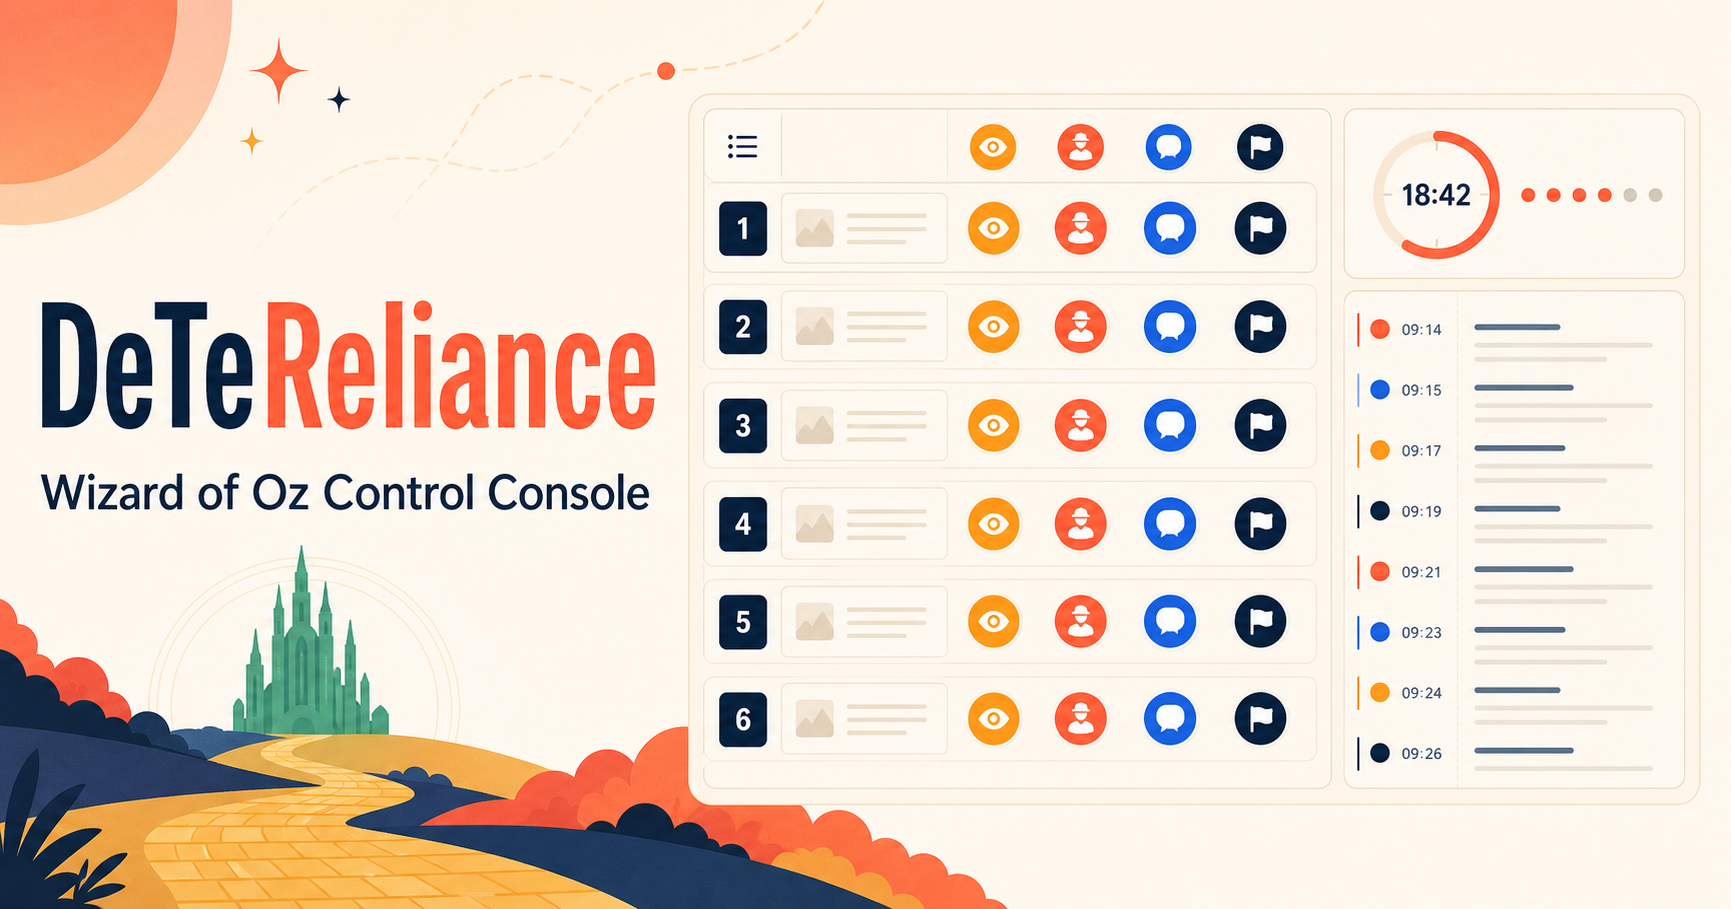
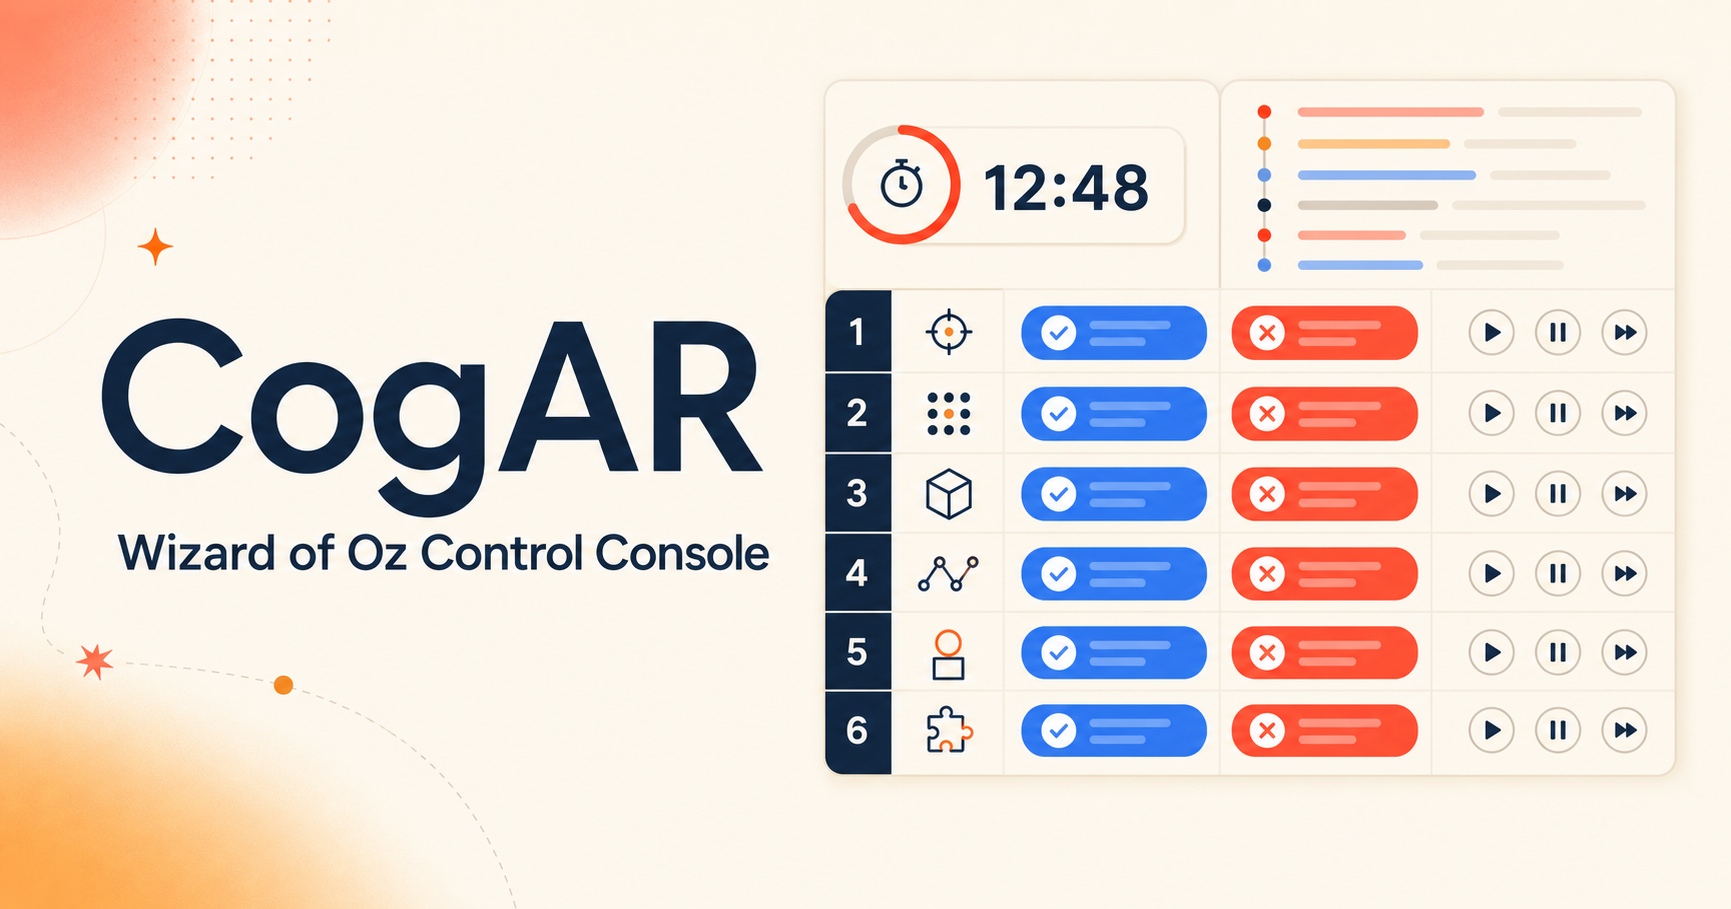
Rename console to CogAR

diff --git a/app/page.tsx b/app/page.tsx
@@ -234,7 +234,7 @@ export default function Home() {
     const url = URL.createObjectURL(new Blob([csv], { type: "text/csv;charset=utf-8" }));
     const anchor = document.createElement("a");
     anchor.href = url;
-    anchor.download = `dete-reliance-${new Date().toISOString().slice(0, 19)}.csv`;
+    anchor.download = `cogar-${new Date().toISOString().slice(0, 19)}.csv`;
     anchor.click();
     URL.revokeObjectURL(url);
   };
@@ -249,10 +249,10 @@ export default function Home() {
     <main>
       <header className="topbar">
         <div className="brand">
-          <div className="brand-mark" aria-hidden="true">D</div>
+          <div className="brand-mark" aria-hidden="true">C</div>
           <div>
             <p className="eyebrow">RESEARCH CONSOLE</p>
-            <h1>DeTe<span>Reliance</span></h1>
+            <h1>Cog<span>AR</span></h1>
           </div>
         </div>
         <div className="session-tools">
@@ -477,7 +477,7 @@ export default function Home() {
 
       <footer>
         <p>Records stay on this device until you reset the session.</p>
-        <p>DeTeReliance · Wizard of Oz operator view</p>
+        <p>CogAR · Wizard of Oz operator view</p>
       </footer>
     </main>
   );

diff --git a/app/layout.tsx b/app/layout.tsx
@@ -25,7 +25,7 @@ export async function generateMetadata(): Promise<Metadata> {
   const origin = `${protocol}://${host}`;
 
   return {
-    title: "DeTeReliance · Wizard of Oz Control Console",
+    title: "CogAR · Wizard of Oz Control Console",
     description:
       "A task-by-task operator console for AI audio cues, final-act timestamps, and reliance classification.",
     icons: {
@@ -33,13 +33,13 @@ export async function generateMetadata(): Promise<Metadata> {
       shortcut: "/favicon.svg",
     },
     openGraph: {
-      title: "DeTeReliance",
+      title: "CogAR",
       description: "Wizard of Oz Control Console",
       images: [`${origin}/og.png`],
     },
     twitter: {
       card: "summary_large_image",
-      title: "DeTeReliance",
+      title: "CogAR",
       description: "Wizard of Oz Control Console",
       images: [`${origin}/og.png`],
     },
